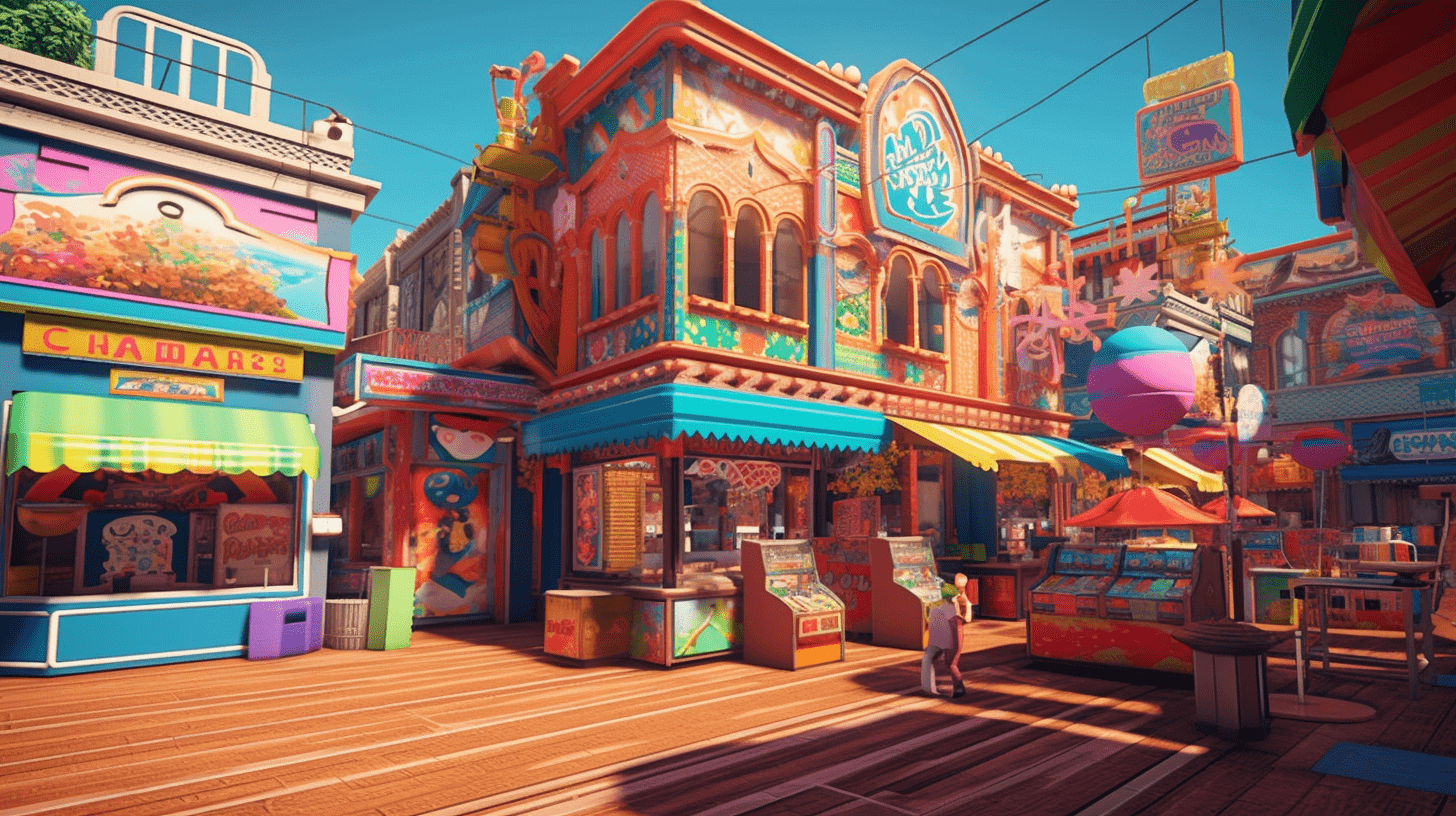
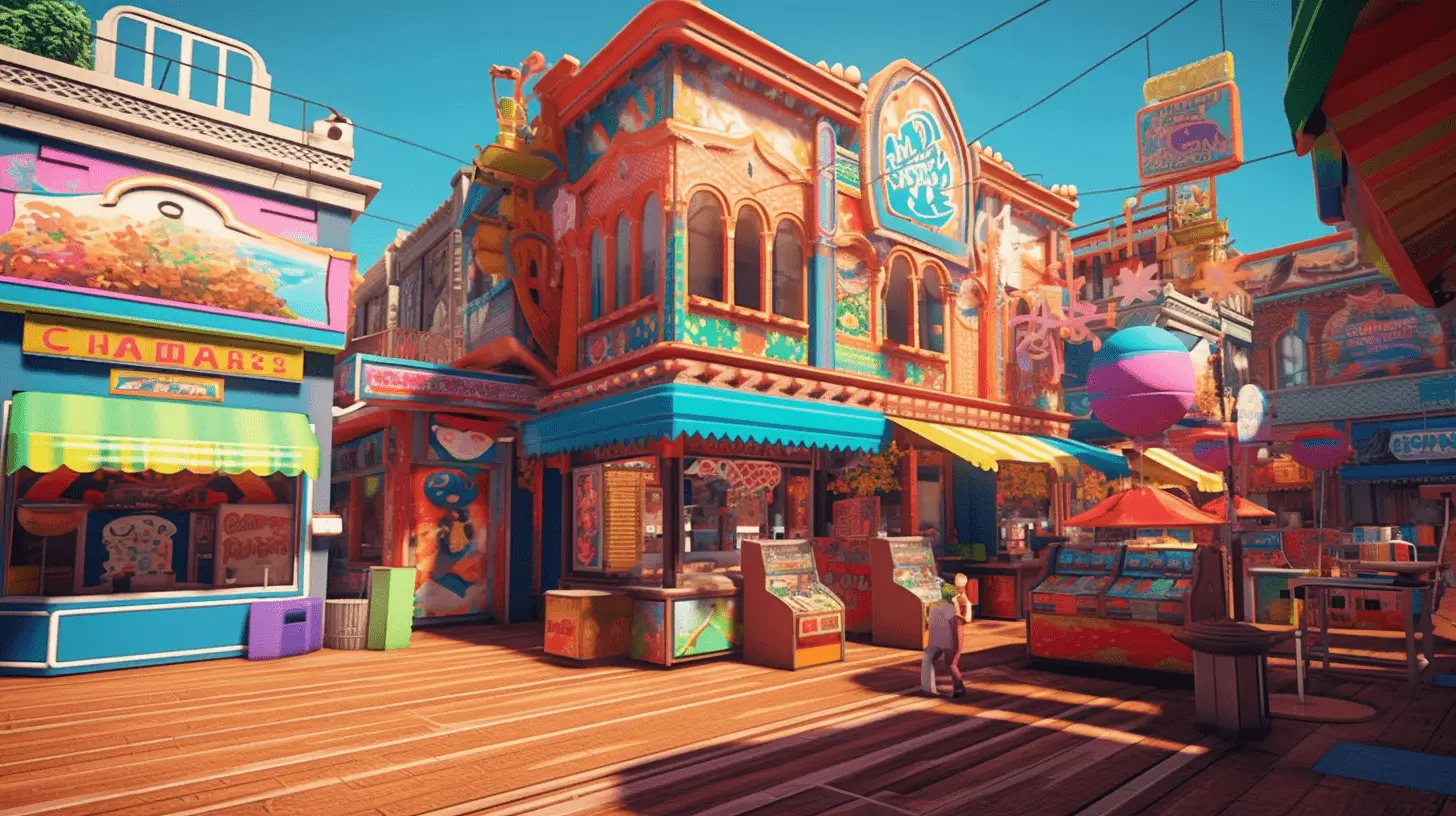
Sent images through compression + converted last jpg/png to webp

diff --git a/src/layouts/NavBar.jsx b/src/layouts/NavBar.jsx
@@ -13,6 +13,12 @@ const NavBar = () => {
     setDarkMode(!isDarkMode);
   };
 
+  const links = [
+    { linkName: 'Home', path: '/' },
+    { linkName: 'About', path: '/about' },
+    { linkName: 'Portfolio', path: '/portfolio' },
+  ];
+
   return (
     <nav className="bg-primary text-primary flex flex-col md:flex-row justify-between items-center py-4 w-full h-auto md:h-24">
       <Link
@@ -28,22 +34,15 @@ const NavBar = () => {
       </Link>
       <div className="mr-2 md:mr-8 flex items-center justify-between">
         <div>
-          <Link to="/" className="px-2">
-            Home
-          </Link>
-          <Link to="/about" className="px-2">
-            About
-          </Link>
-          <Link to="/portfolio" className="px-2">
-            Portfolio
-          </Link>
-          <Link to="/blog" className="px-2">
-            Blog
-          </Link>
+          {links.map((link, i) => (
+            <Link key={i} to={link.path} className="px-2">
+              {link.linkName}
+            </Link>
+          ))}
         </div>
         <button
           onClick={toggleDarkMode}
-          className="px-2 md:ml-8 bg-transparent hover:bg-transparent"
+          className="py-1 px-2 md:ml-8 bg-black border border-white rounded hover:bg-gray-500"
         >
           {isDarkMode ? '🌞' : '🌙'}
         </button>

diff --git a/src/pages/About.jsx b/src/pages/About.jsx
@@ -5,10 +5,10 @@ import { DarkModeContext } from '../context/DarkModeContext';
 import ProjectCard from '../components/ProjectCard';
 import backgroundImageDay from '/src/assets/images/outdoor-arcade-day-min.webp';
 import backgroundImageNight from '/src/assets/images/indoor-arcade-night-min.webp';
-import halfMarathonImage from '/src/assets/images/half_marathon.png';
+import halfMarathonImage from '/src/assets/images/half_marathon.webp';
 import dirtbikeFirePitImage from '/src/assets/images/dirtbike_firepit.webp';
-import beerLeagueImage from '/src/assets/images/beer_league.jpg';
-import golfImage from '/src/assets/images/golf.jpg';
+import beerLeagueImage from '/src/assets/images/beer_league.webp';
+import golfImage from '/src/assets/images/golf.webp';
 
 const About = () => {
   const { isDarkMode } = useContext(DarkModeContext);
